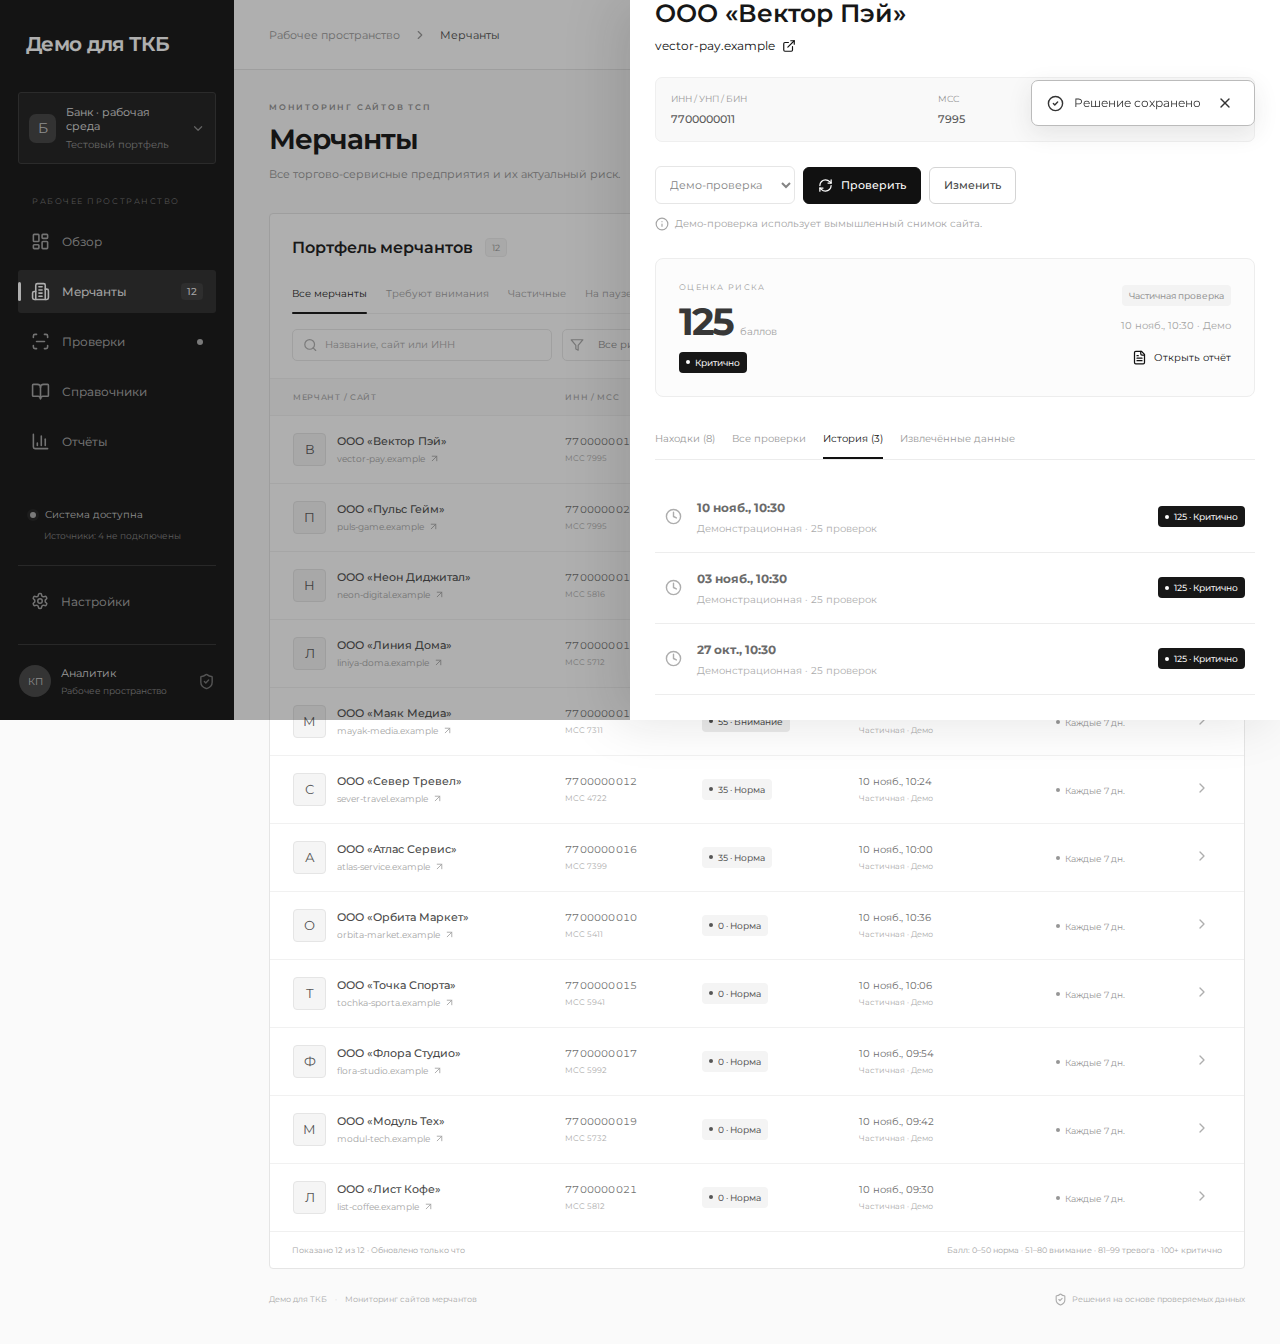
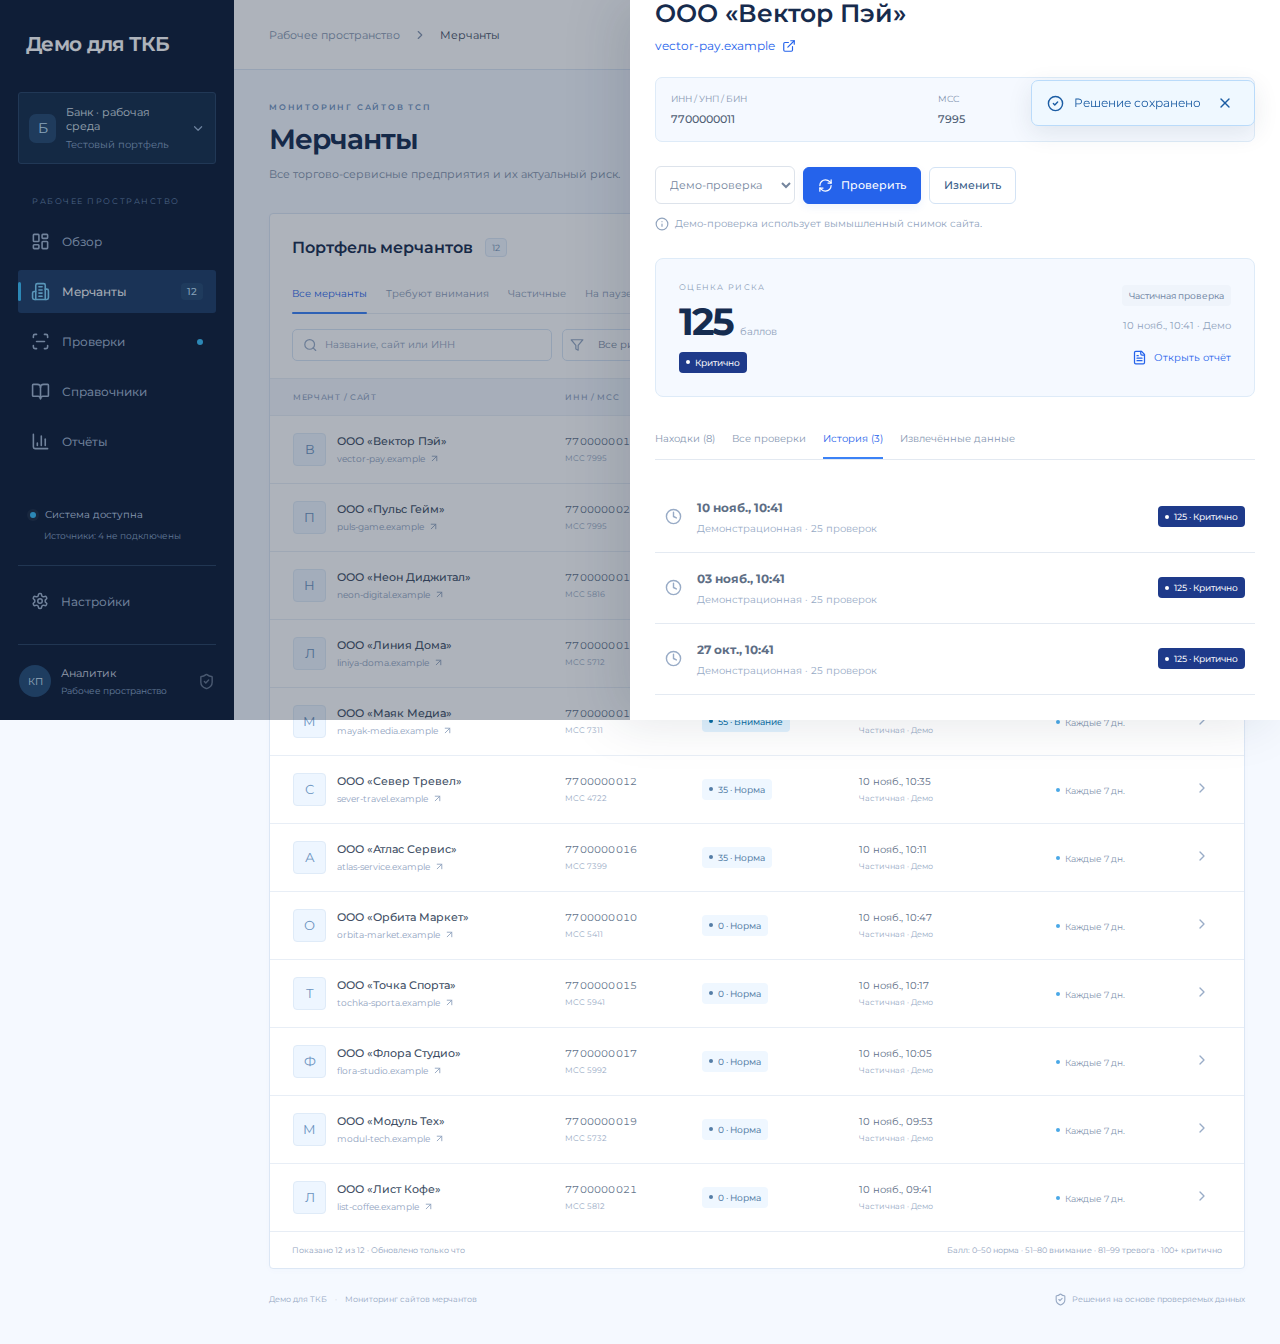
Record passing blue-theme regression and refresh screenshots [skip ci]

diff --git a/docs/TESTING.md b/docs/TESTING.md
@@ -1,8 +1,32 @@
 # Регрессионное тестирование
 
-Обновление синей и голубой палитры «Демо для ТКБ»: функциональные сценарии сохранены, проверки выполняются для нового оформления.
+Итог обновления синей и голубой палитры «Демо для ТКБ»: **PASS**. Проверен код `b81ab40553295a485f3de74d9aa69086d563e841`, 11 ноября 2026 года.
 
-Проверяются TypeScript, сборка, ядро/API, настольный и мобильный браузер, согласованная палитра всех экранов, Montserrat и печатный отчёт. Итоги и актуальные снимки добавляются после успешного прогона.
+[Успешный GitHub Actions](https://github.com/kirillpivovarov/merchants/actions/runs/43006408458) · [HTML-отчёт и артефакты](https://github.com/kirillpivovarov/merchants/actions/runs/43006408458/artifacts/13847928853).
+
+| Проверка | Результат |
+|---|---|
+| TypeScript и production build | PASS |
+| Unit / API / storage / Node runtime / scanner | **77 из 77**, 5 файлов |
+| Chromium, desktop и mobile | **12 из 12**, без повторов, 10,6 с |
+| Палитра на шести экранах | PASS: синие, голубые и нейтральные цвета; основные кнопки `#2563eb`, навигация `#0c1b35` |
+| Шрифт и текстовое название | PASS: Montserrat, «Демо для ТКБ», без SVG в бренде |
+| Печатный отчёт | PASS: синие ссылки, голубые акценты, локальный шрифт |
+| Собранный Worker | PASS: ресурсы, identity, D1-совместимый SQLite, сохранение, scan, report |
+| Развёртывание Sites | succeeded |
+| Размещённые `/` и `/api/health` | 200, хранилище ready |
+| `/api/state` без пользовательской identity | 401, защита записей сохранена |
+| Дифф бизнес-модулей, сканера, API, хранилища и hosting identity | Изменений нет |
+
+Покрытие выбранного ядра: **98,25% строк**, 97,47% statements, 97,14% functions, 93,05% branches. Этот показатель не относится ко всему JSX.
+
+Публикация: https://tkb-demo.kirillpivovarov.chatgpt.site . Версия: `appgprj_6af4363fc42c8191a6025c05bd021e11~appgver_0a47f92c4a9c8191bac346893af0bc91`; deployment `appgdep_6af447e163508191a8ecd461cb613bed`.
+
+## Оформление и снимки из успешного прогона
+
+Палитра и типографика описаны в [DESIGN.md](DESIGN.md). Снимки: [обзор](screenshots/overview-desktop.png), [мобильный экран](screenshots/overview-mobile.png), [карточка](screenshots/merchant-evidence.png), [печатный отчёт](screenshots/audit-report.png).
+
+![Демо для ТКБ — обзор](screenshots/overview-desktop.png)
 
 ## Уровни
 
